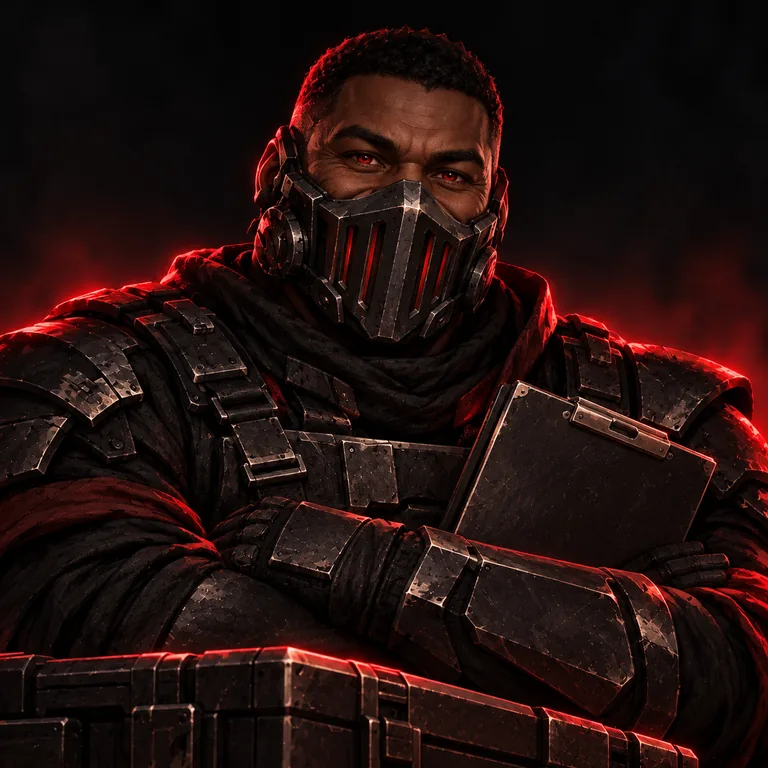
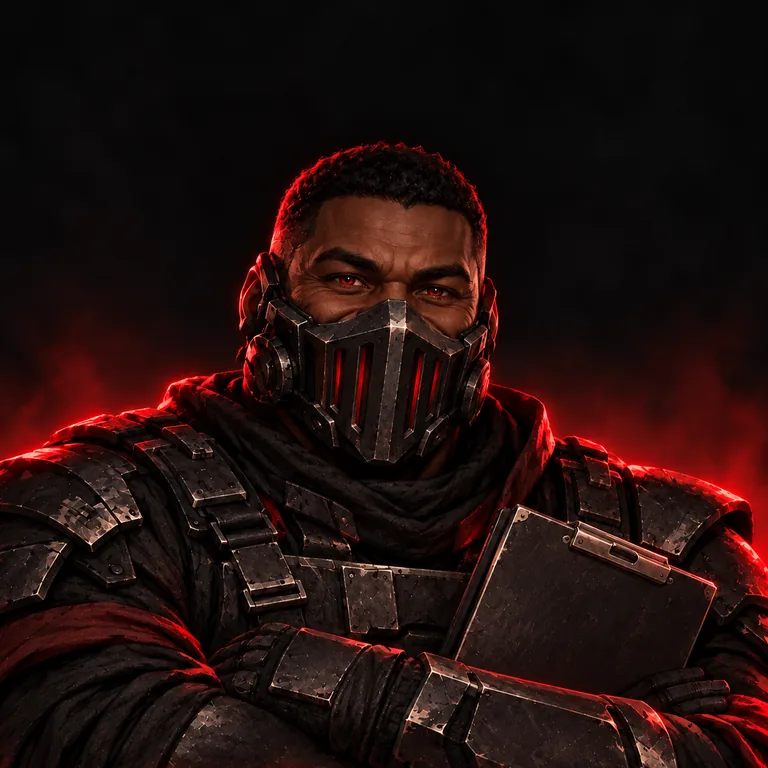
image-generation: IMG-06 replace SVG portraits with generated characters

diff --git a/apps/web/src/components/Art.tsx b/apps/web/src/components/Art.tsx
@@ -1,104 +1,15 @@
 import type { AgentRole, Rank } from '@frontline/shared';
 import { cx } from './ui';
 
-// Character art, mounted once as an SVG sprite and drawn with <use href="#…">. Hood + helm come from the approved
-// mockup (the hero uses them too); UI-08 adds one character per role, all in the same dark-armor + red-eye language.
-const SHOULDERS = <path d="M4 64c2-9 10-15 18-16h20c8 1 16 7 18 16z" fill="#111114" />;
-const SHELL = { fill: 'url(#hoodFill)', stroke: 'rgba(255,42,58,.5)', strokeWidth: 0.8 };
-const EYE = { fill: '#ff2a3a', filter: 'url(#eyeGlow)' };
-const TRIM = { fill: 'none', stroke: 'rgba(255,42,58,.35)', strokeWidth: 1 };
-
-export function SvgDefs() {
-  return (
-    <svg width="0" height="0" className="absolute" aria-hidden="true">
-      <defs>
-        <filter id="eyeGlow" x="-100%" y="-200%" width="300%" height="500%">
-          <feGaussianBlur stdDeviation="1.1" result="b" />
-          <feMerge>
-            <feMergeNode in="b" />
-            <feMergeNode in="b" />
-            <feMergeNode in="SourceGraphic" />
-          </feMerge>
-        </filter>
-        <linearGradient id="hoodFill" x1="0" y1="0" x2="0" y2="1">
-          <stop offset="0" stopColor="#26262c" />
-          <stop offset="1" stopColor="#0b0b0d" />
-        </linearGradient>
-      </defs>
-      <symbol id="hood" viewBox="0 0 64 64">
-        <path d="M4 64c2-9 10-15 18-16h20c8 1 16 7 18 16z" fill="#111114" />
-        <path d="M32 3C17 3 9 16 9 30c0 12 6 22 12 26h22c6-4 12-14 12-26C55 16 47 3 32 3z" fill="url(#hoodFill)" stroke="rgba(255,42,58,.5)" strokeWidth=".8" />
-        <path d="M32 15c-8 0-13 8-13 17 0 9 5 16 13 18 8-2 13-9 13-18 0-9-5-17-13-17z" fill="#040405" />
-        <path d="M23 31l7 2.6v1.4l-7-2z" fill="#ff2a3a" filter="url(#eyeGlow)" />
-        <path d="M41 31l-7 2.6v1.4l7-2z" fill="#ff2a3a" filter="url(#eyeGlow)" />
-      </symbol>
-      <symbol id="helm" viewBox="0 0 64 64">
-        <path d="M4 64c2-9 10-15 18-16h20c8 1 16 7 18 16z" fill="#111114" />
-        <path d="M32 6c-12 0-20 9-20 22v14c0 6 4 10 9 12l11 3 11-3c5-2 9-6 9-12V28C52 15 44 6 32 6z" fill="url(#hoodFill)" stroke="rgba(255,42,58,.5)" strokeWidth=".8" />
-        <path d="M17 29h30l-3.5 7h-23z" fill="#040405" />
-        <path d="M21 31.4h22l-1.5 2.4H22.5z" fill="#ff2a3a" filter="url(#eyeGlow)" />
-        <path d="M32 7v9M24 44l8 3 8-3" stroke="rgba(255,42,58,.35)" strokeWidth="1" fill="none" />
-      </symbol>
-      <symbol id="horned" viewBox="0 0 64 64">
-        {SHOULDERS}
-        <path d="M17 25C10 21 8 12 10 3c3 7 7 11 13 13zM47 25c7-4 9-13 7-22-3 7-7 11-13 13z" {...SHELL} />
-        <path d="M32 10c-11 0-18 8-18 20v12c0 6 4 10 9 12l9 3 9-3c5-2 9-6 9-12V30c0-12-7-20-18-20z" {...SHELL} />
-        <path d="M20 30h24l-3 9H23z" fill="#040405" />
-        <path d="M23 32l7 2v1.5l-7-1.5zM41 32l-7 2v1.5l7-1.5z" {...EYE} />
-        <path d="M28 45h8M29 48h6" {...TRIM} />
-      </symbol>
-      <symbol id="masked" viewBox="0 0 64 64">
-        {SHOULDERS}
-        <path d="M32 3C17 3 9 16 9 30c0 12 6 22 12 26h22c6-4 12-14 12-26C55 16 47 3 32 3z" {...SHELL} />
-        <path d="M32 15c-8 0-13 8-13 17 0 9 5 16 13 18 8-2 13-9 13-18 0-9-5-17-13-17z" fill="#040405" />
-        <path d="M19.5 35c4 3 8 4 12.5 4s8.5-1 12.5-4v6c-3 6-7 9-12.5 10-5.5-1-9.5-4-12.5-10z" fill="#18181c" stroke="rgba(255,42,58,.35)" strokeWidth=".6" />
-        <ellipse cx="26" cy="30.5" rx="3.2" ry="1.3" {...EYE} />
-        <ellipse cx="38" cy="30.5" rx="3.2" ry="1.3" {...EYE} />
-      </symbol>
-      <symbol id="ninja" viewBox="0 0 64 64">
-        {SHOULDERS}
-        <path d="M32 8c-11 0-18 9-18 21 0 11 7 21 18 24 11-3 18-13 18-24 0-12-7-21-18-21z" {...SHELL} />
-        <path d="M14.6 27h34.8v8H14.6z" fill="#040405" />
-        <path d="M14.8 21.5h34.4v3H14.8zM49 22l10 3-8 1.5 7 6-10-4.5z" fill="#ff2a3a" opacity=".8" />
-        <path d="M21 30.4h8l-1 1.7h-6zM35 30.4h8l-1 1.7h-6z" {...EYE} />
-      </symbol>
-      <symbol id="ram" viewBox="0 0 64 64">
-        {SHOULDERS}
-        <path d="M18 22c-8-2-13 4-11 11 2 6 9 7 11 2-4 1-7-1-6-4 1-4 5-4 7-2zM46 22c8-2 13 4 11 11-2 6-9 7-11 2 4 1 7-1 6-4-1-4-5-4-7-2z" fill="#1d1d22" stroke="rgba(255,42,58,.5)" strokeWidth=".8" />
-        <path d="M32 9c-10 0-16 8-16 18v13c0 7 6 13 16 15 10-2 16-8 16-15V27c0-10-6-18-16-18z" {...SHELL} />
-        <path d="M21 28h22v5h-8v14h-6V33h-8z" fill="#040405" />
-        <path d="M23 29.5h7v2h-7zM34 29.5h7v2h-7z" {...EYE} />
-      </symbol>
-      <symbol id="crest" viewBox="0 0 64 64">
-        {SHOULDERS}
-        <path d="M23 15l1-11 5 8 3-10 3 10 5-8 1 11z" fill="#1d1d22" stroke="rgba(255,42,58,.5)" strokeWidth=".8" />
-        <path d="M32 12c-10 0-16 8-16 18 0 10 6 20 16 23 10-3 16-13 16-23 0-10-6-18-16-18z" {...SHELL} />
-        <path d="M19 28l11 3-1 4.5-9-2zM45 28l-11 3 1 4.5 9-2z" fill="#040405" />
-        <path d="M21 30l8 2.2-.5 1.6-7-1.6zM43 30l-8 2.2.5 1.6 7-1.6z" {...EYE} />
-        <path d="M27 44c3 2 7 2 10 0" {...TRIM} />
-      </symbol>
-      <symbol id="heavy" viewBox="0 0 64 64">
-        <path d="M2 64c1-8 5-13 12-15l8-2v17zM62 64c-1-8-5-13-12-15l-8-2v17z" fill="#18181c" stroke="rgba(255,42,58,.35)" strokeWidth=".8" />
-        <path d="M20 64V50h24v14z" fill="#111114" />
-        <path d="M32 7c-12 0-19 8-19 19v15c0 7 5 12 12 13h14c7-1 12-6 12-13V26c0-11-7-19-19-19z" {...SHELL} />
-        <path d="M18 27h28v6H18z" fill="#040405" />
-        <circle cx="26" cy="30" r="1.7" {...EYE} />
-        <circle cx="38" cy="30" r="1.7" {...EYE} />
-        <path d="M26 39v8M29 39v9M32 39v9M35 39v9M38 39v8" {...TRIM} />
-      </symbol>
-    </svg>
-  );
-}
-
 const LOOK: Record<AgentRole, string> = {
-  ad_strategist: 'horned',
-  product_hunter: 'helm',
-  store_developer: 'hood',
-  creative_studio: 'crest',
-  market_analyst: 'ram',
-  copywriter: 'masked',
-  email_sms: 'ninja',
-  operations: 'heavy',
+  ad_strategist: 'ad-strategist',
+  product_hunter: 'product-hunter',
+  store_developer: 'store-developer',
+  creative_studio: 'creative-studio',
+  market_analyst: 'market-analyst',
+  copywriter: 'copywriter',
+  email_sms: 'email-sms',
+  operations: 'operations',
 };
 
 /** Rank frames: the border heats up from grey (Recruit) to a double red ring with glow (Legend). */
@@ -116,14 +27,12 @@ export function Portrait({ role, rank, className }: { role: AgentRole; rank?: Ra
     <div
       title={rank}
       className={cx(
-        'shrink-0 overflow-hidden rounded-[9px] border bg-[radial-gradient(circle_at_50%_30%,rgb(255_42_58/.38),#0b0b0d_72%)]',
+        'shrink-0 overflow-hidden rounded-[9px] border bg-bg',
         rank ? FRAME[rank] : 'border-red/25',
         className ?? 'size-[42px]',
       )}
     >
-      <svg viewBox="0 0 64 64" className="block size-full" aria-hidden="true">
-        <use href={`#${LOOK[role]}`} />
-      </svg>
+      <img src={`/art/agents/${LOOK[role]}.webp`} alt="" draggable={false} width={768} height={768} className="block size-full object-cover object-[center_32%]" />
     </div>
   );
 }

diff --git a/apps/web/src/components/Shell.tsx b/apps/web/src/components/Shell.tsx
@@ -3,7 +3,6 @@ import { Link, NavLink, Outlet, useLocation } from 'react-router';
 import { TriangleAlert } from 'lucide-react';
 import { useAgents, useClaudeAccount, useGoLiveRefresh, useHealth, useLive } from '../api/client';
 import { NAV, pageTitle } from '../nav';
-import { SvgDefs } from './Art';
 import { AskPalette } from './AskPalette';
 import { BrandLogo } from './BrandLogo';
 import { XpToasts } from './Gamification';
@@ -42,7 +41,6 @@ export function Shell() {
       >
         Skip to content
       </a>
-      <SvgDefs />
       <XpToasts />
       <AskPalette />
       <Onboarding />

diff --git a/docs/backlog/image-generation.md b/docs/backlog/image-generation.md
@@ -74,6 +74,8 @@ silhouette you can tell apart at 32 px. Keep each one's current look as the anch
 
 ## Done
 
+- 2026-10-27 IMG-06: Portrait keeps its role/rank/className API and rank/paused frames; all eight images share a face-focused crop. Reframed Operations with imagegen to align its eyes. Removed unused SVG sprite and Shell mount; all callers checked at 1280/1920 with no browser errors, pnpm check green.
+
 - 2026-10-27 IMG-05: All eight 768px portraits generated with distinct expressions, silhouettes and role props; exact prompts recorded. Browser galleries checked at 1280/1920 with 32/42/48/96px and wide-card crops. Every portrait below 80 KB; pnpm check green.
 
 - 2026-10-27 IMG-04: Hero/nav now load per-section local WebP art, including agent detail; removed skyline/scenes and gradient art. Browser checks at 900/1280/1920/2560 confirm loaded images, unchanged header height, pointer-events none, drag/no-drag CSS. All header screenshots saved; pnpm check green.
@@ -102,11 +104,13 @@ and ignore a watchdog nudge if `.agent/STOP` is already there.
 - [x] IMG-04 Wire headers: `Hero` shows the page's image (replace `HeroArt` / `Scene` / the SVG skyline with an image
   key per page in `nav.ts`), text readable, right side and drag region intact, no layout shift, 900–2560 px.
 - [x] IMG-05 The other seven portraits, same template.
-- [ ] IMG-06 Wire portraits: `Portrait` renders the image at every size, rank frames and paused look kept, unused SVG
+- [x] IMG-06 Wire portraits: `Portrait` renders the image at every size, rank frames and paused look kept, unused SVG
   symbols removed.
 - [ ] IMG-07 Acceptance pass ("Done when" above), fix what it finds, then STOP.
 
 ## Done
+
+- 2026-10-27 IMG-06: Portrait keeps its role/rank/className API and rank/paused frames; all eight images share a face-focused crop. Reframed Operations with imagegen to align its eyes. Removed unused SVG sprite and Shell mount; all callers checked at 1280/1920 with no browser errors, pnpm check green.
 
 - 2026-10-27 IMG-05: All eight 768px portraits generated with distinct expressions, silhouettes and role props; exact prompts recorded. Browser galleries checked at 1280/1920 with 32/42/48/96px and wide-card crops. Every portrait below 80 KB; pnpm check green.
 

diff --git a/apps/web/public/art/PROMPTS.md b/apps/web/public/art/PROMPTS.md
@@ -88,6 +88,13 @@ Email and SMS: a friendly fast male messenger-ninja with East Asian features, sh
 
 Operations: a big dependable dark-skinned quartermaster with broad shoulders, close-cropped hair and a heavy black GRILL HALF-MASK with strong vertical vents. Friendly glowing red eyes with smile creases, reassuring steady gaze. Arms crossed over heavy matte work armor, a blank clipboard tucked under one arm and the top edge of one shipping crate at the bottom. Robust simple square silhouette, warm personality, no hood or horns.
 
+
+### Operations crop refinement
+
+Reference: the original Operations square portrait. Replaced `agents/operations.webp` with the reframed result to keep the eyes in the shared card crop.
+
+Edit only the portrait composition. Keep the exact same Operations character, face, friendly eyes, dark skin, grill half-mask, armor, crossed arms, clipboard, illustration style, red rim lighting and square canvas. Shift/reframe the bust DOWN in the square: put the eyes at exactly 35% of total image height (currently about 22%), top of hair at 18%, mask bottom at 57%. Leave a quiet charcoal margin above the head, naturally crop more of the lower arms and crate at the bottom. Do not zoom in; keep the face width about one-third of the square. This must match the other squad portraits' centered eye line and keep both eyes visible in a horizontal 3:1 strip cropped at center 32%. No text, logos, borders, or extra objects.
+
 ## Style frame
 
 ### Command Center: initial generation
